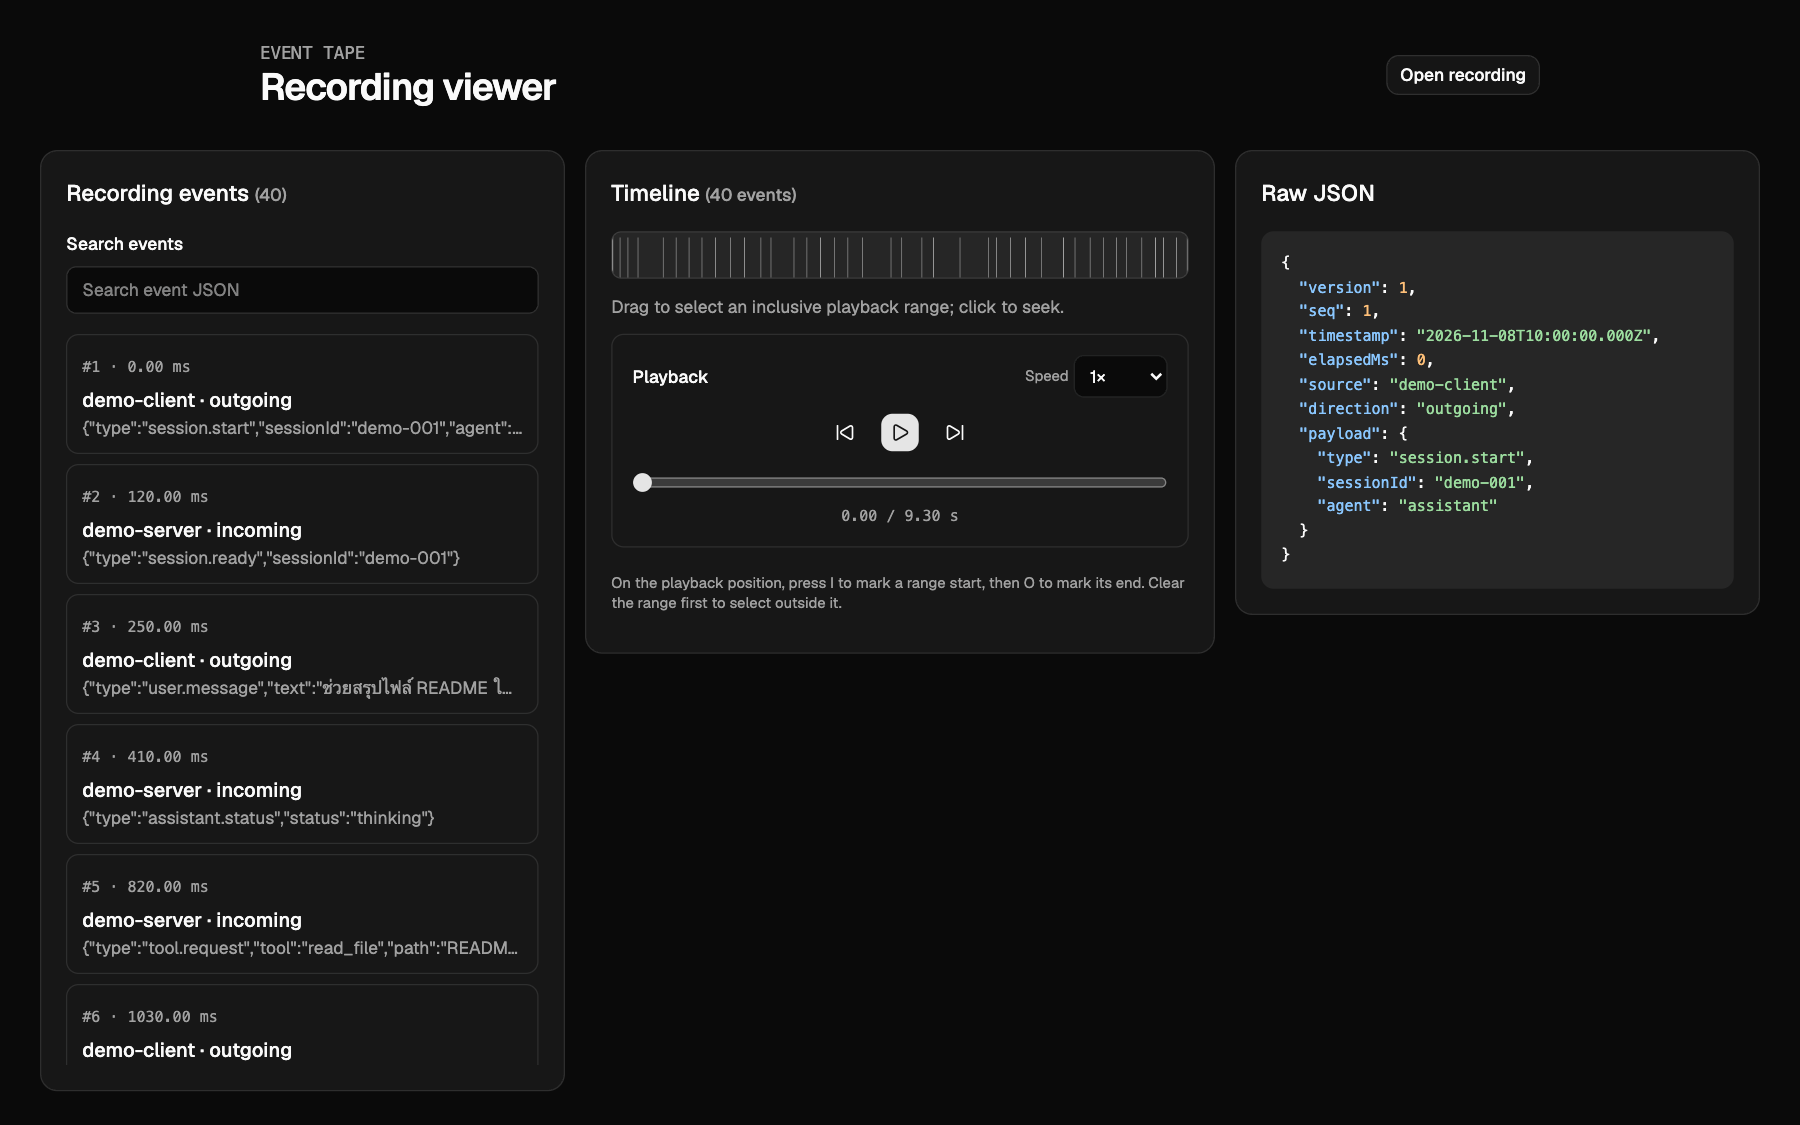
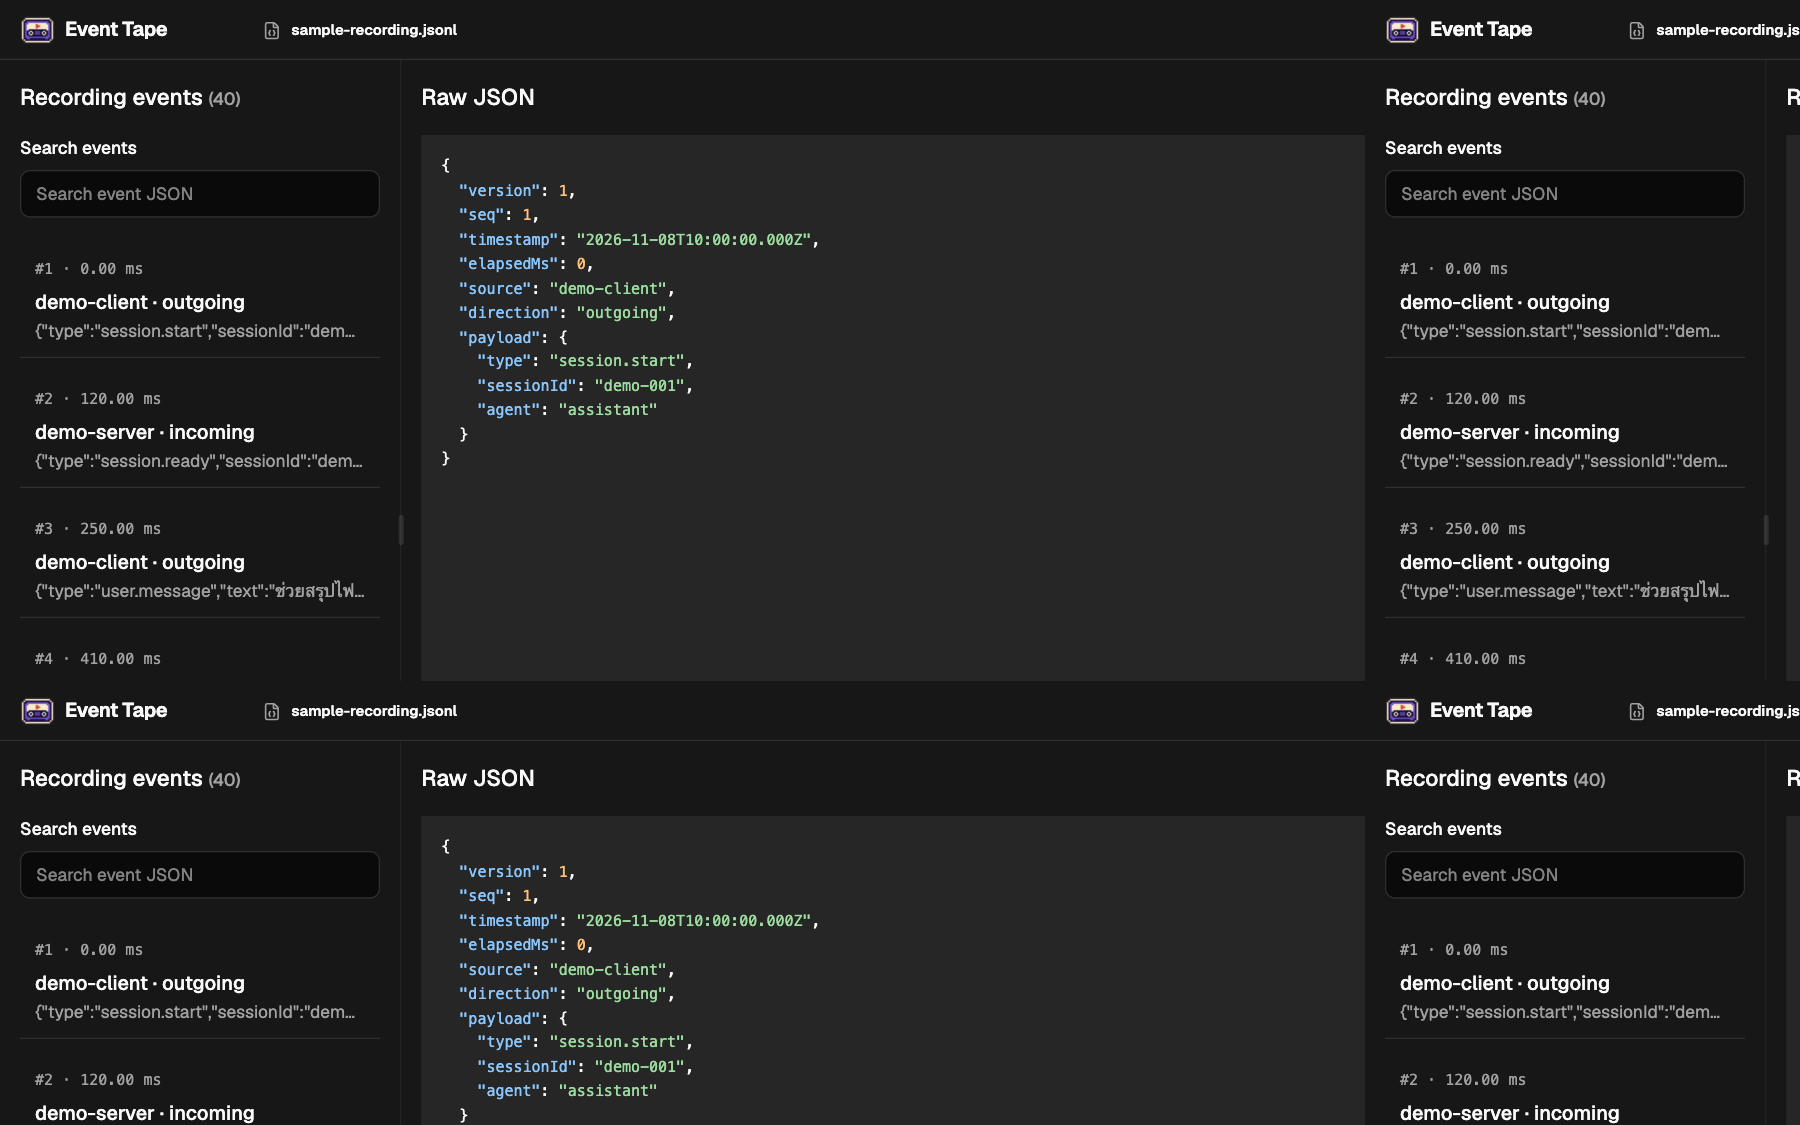
docs: update README branding and screenshot

diff --git a/README.md b/README.md
@@ -1,6 +1,8 @@
 # Event Tape
 
-<img src="image/event-tape-logo.png" alt="Event Tape pixel art cassette logo" width="400">
+<p align="center">
+  <img src="docs/event-tape-logo.png" alt="Event Tape pixel art cassette logo" width="400">
+</p>
 
 Record application events and inspect them later on a timeline. Event Tape pairs a headless SDK for writing recordings with a local Viewer for exploring event sequences, timing, and payloads.
 
